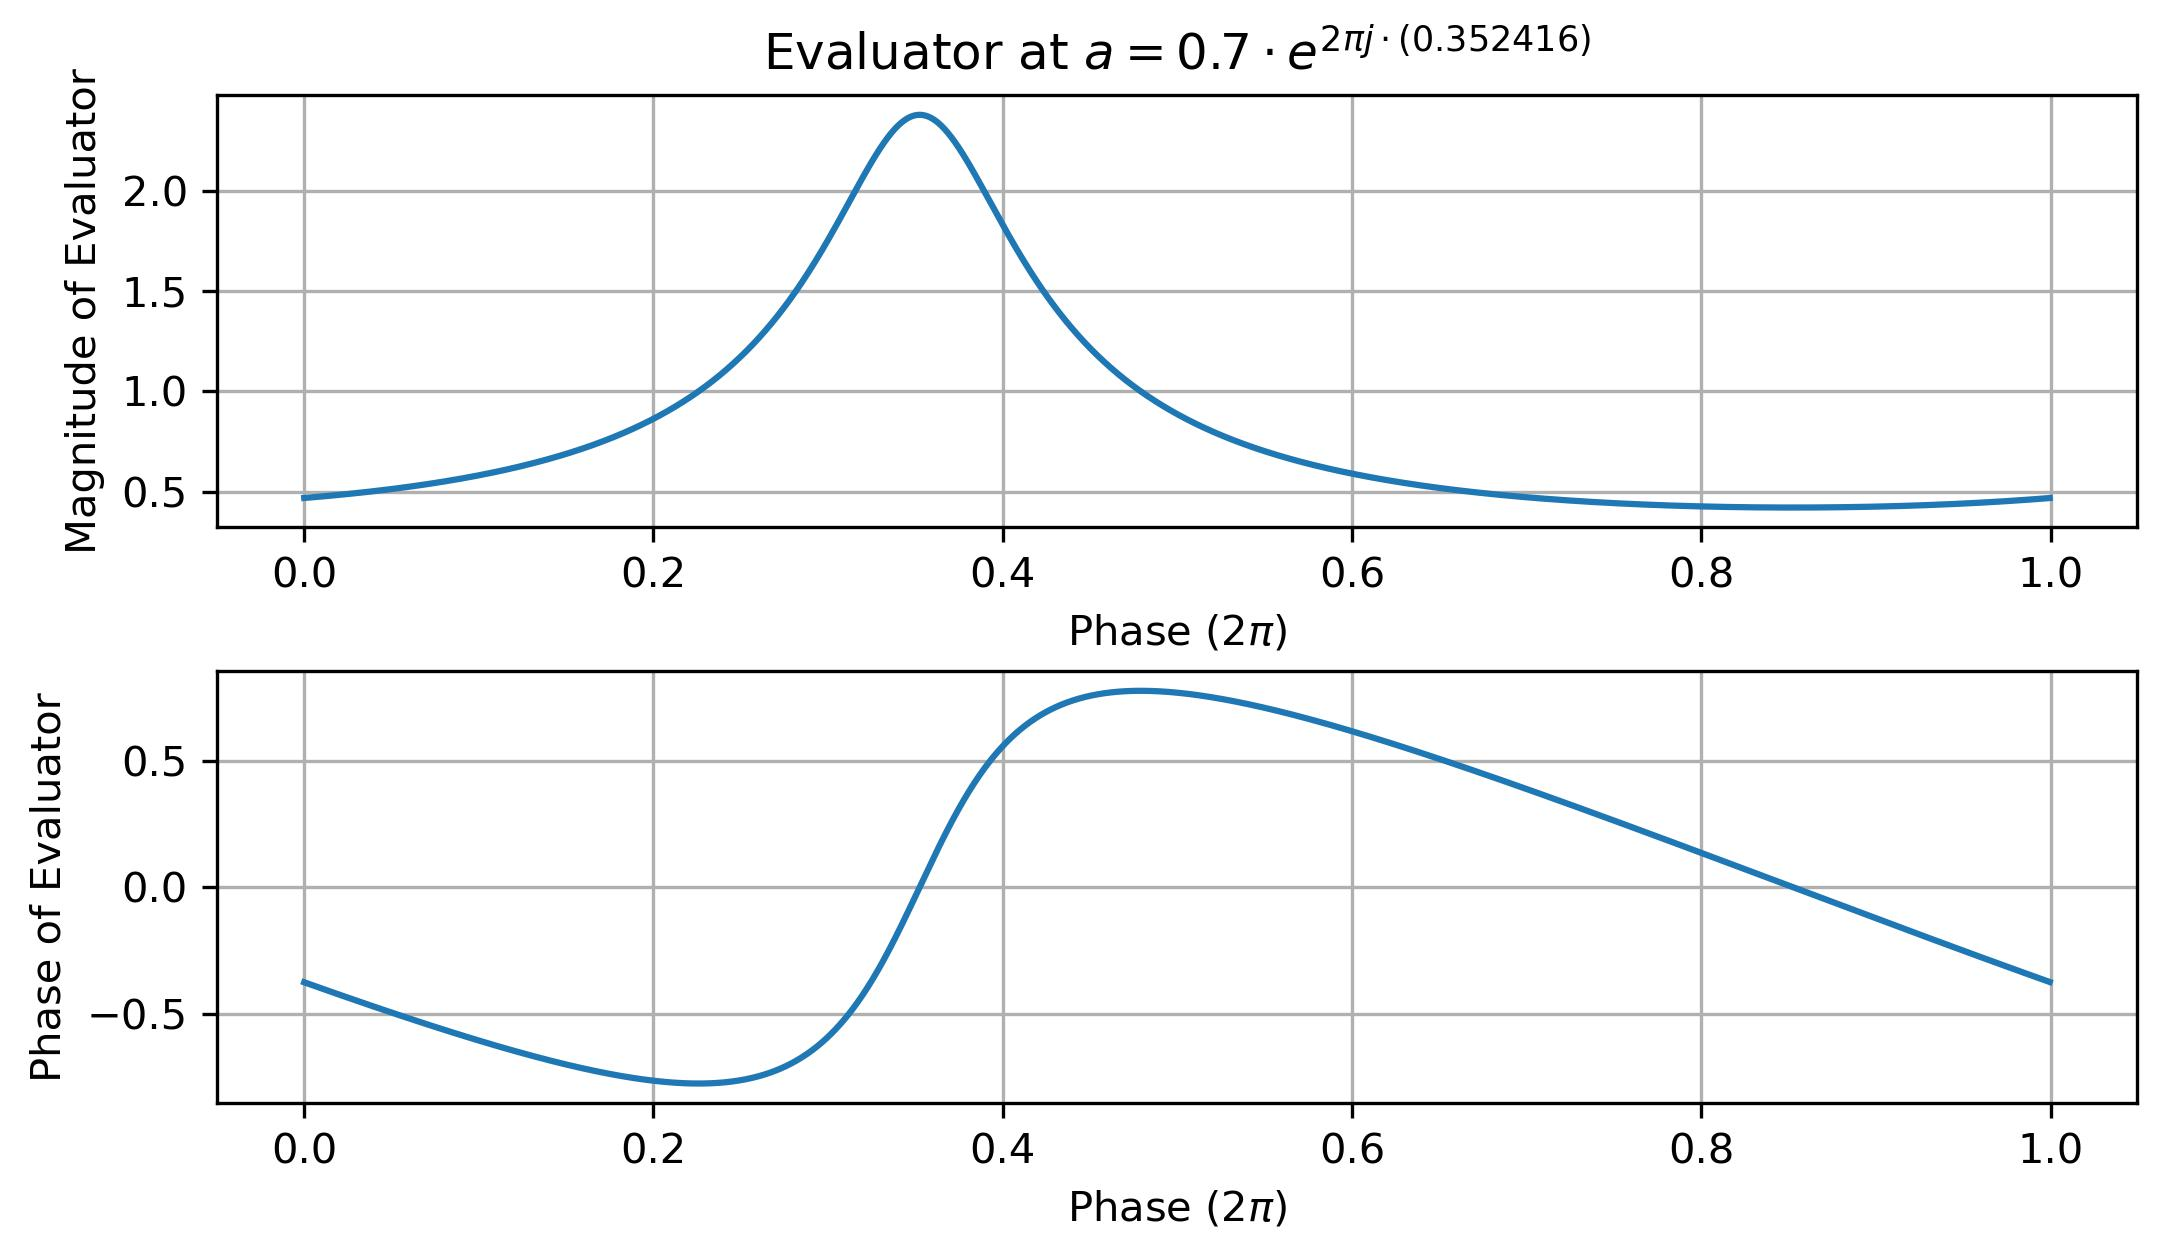
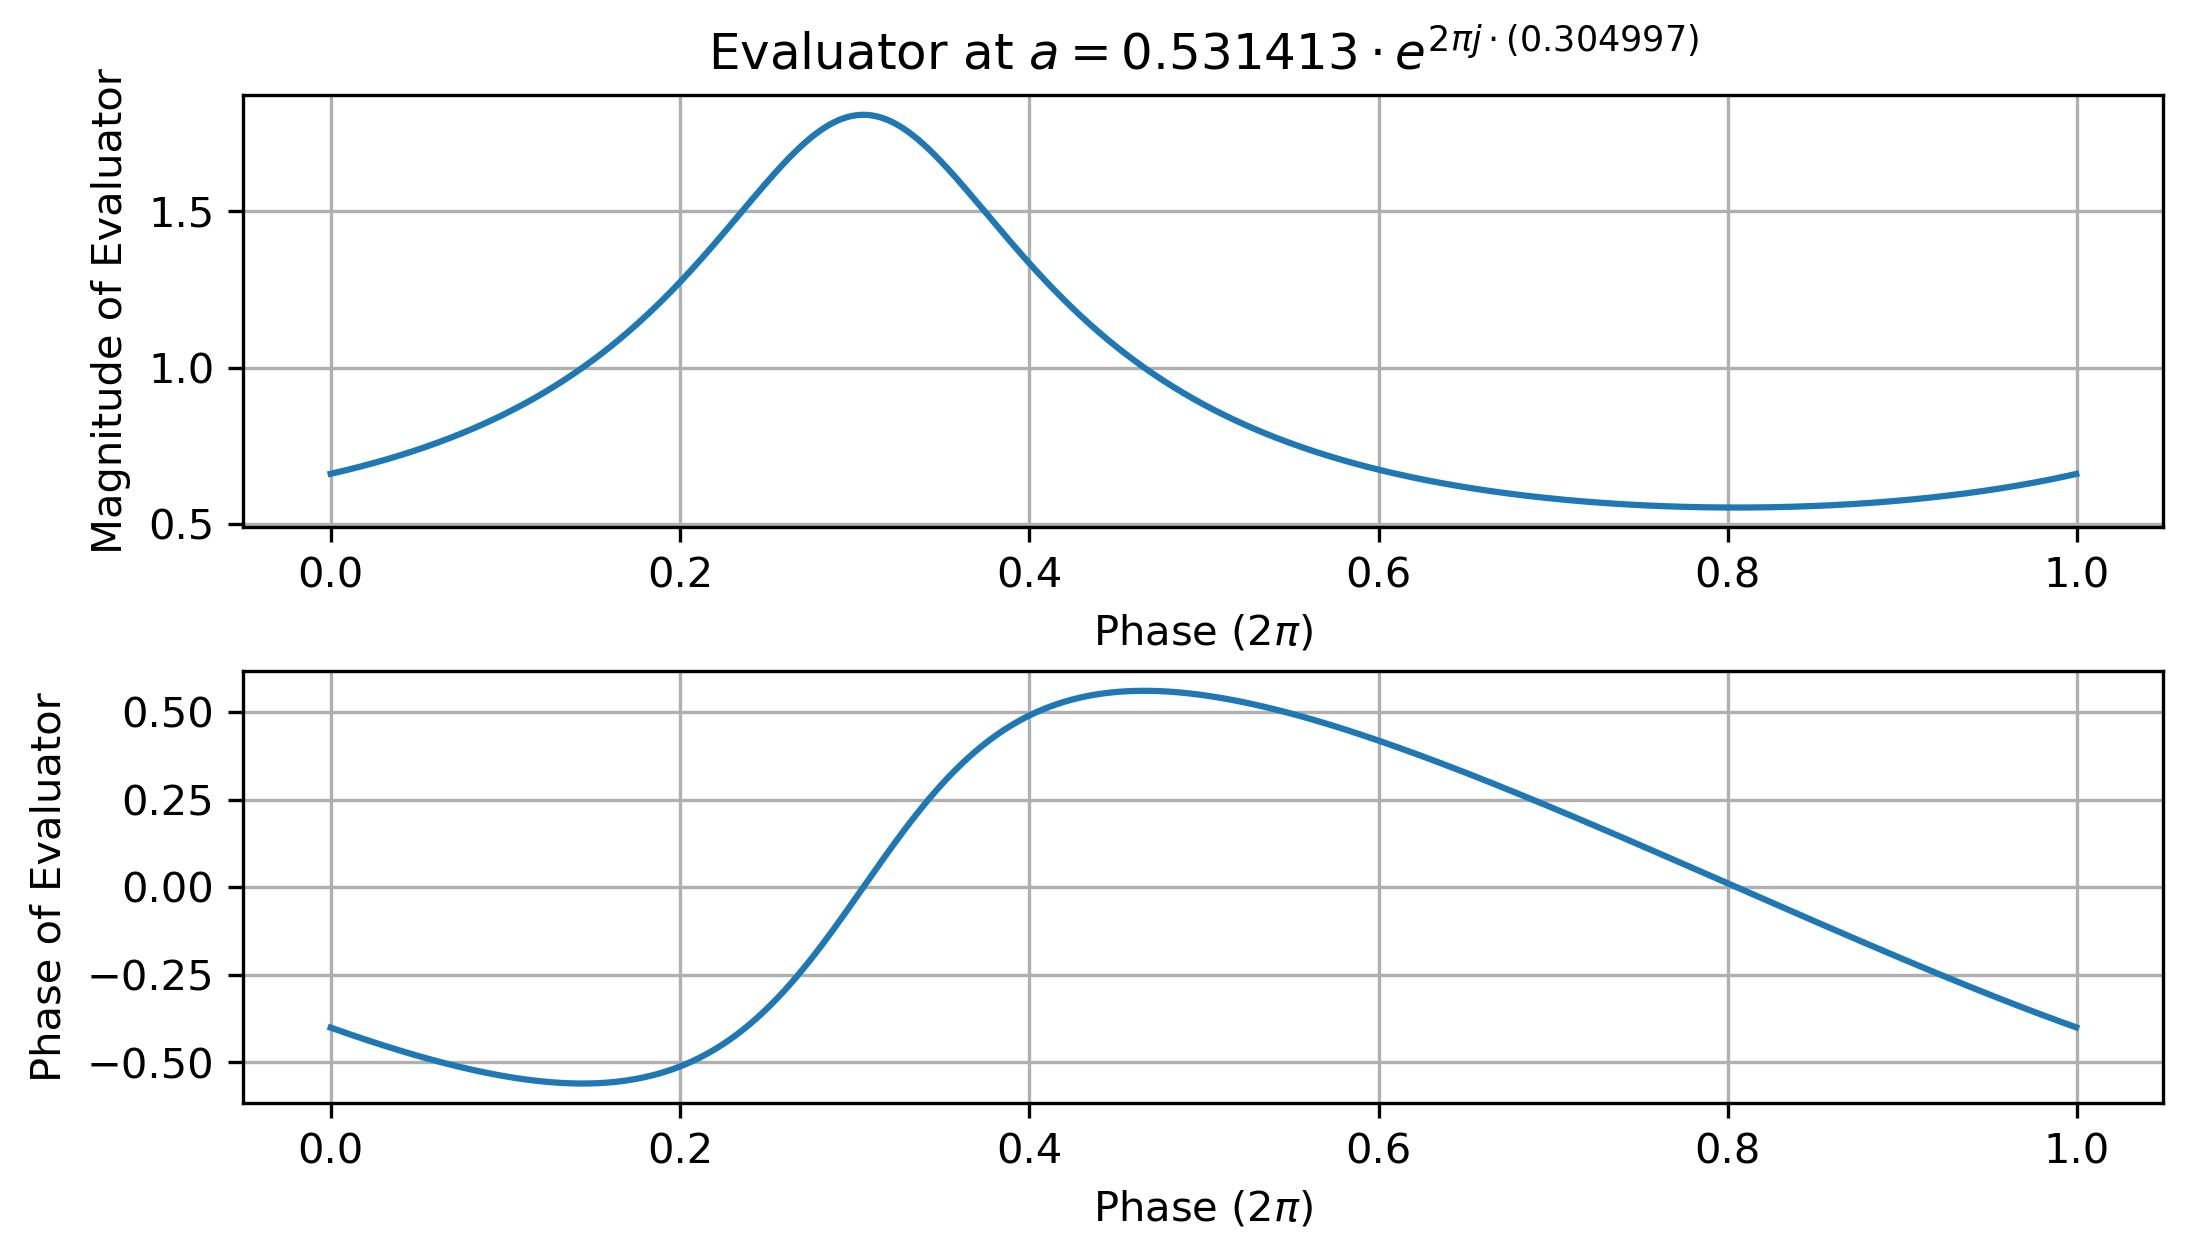
Fast AFD finish

diff --git a/Python/v2.0/example_fast_AFD.py b/Python/v2.0/example_fast_AFD.py
@@ -1,0 +1,48 @@
+import numpy as np
+
+from AFDCal import AFDCal
+from AFDCal._io import savefig
+
+# init AFD Calculation
+afdcal = AFDCal()
+# Load input signal
+afdcal.loadInputSignal('bump_signal.mat')
+# set decomposition method: Single Channel fast AFD
+afdcal.setDecompMethod(2)
+# set dictionary generation method: circle
+afdcal.setDicGenMethod(2)
+# generate dictionary
+afdcal.genDic(1/50, 1)
+
+print("Time of generating the searching dictionary: {:n} s".format(afdcal.time_genDic))
+fig, _ = afdcal.plot_dict()
+savefig(fig, 'example_res_fast_AFD/searching_dictionary.jpg')
+# generate evaluator
+afdcal.genEva()
+
+print("Time of generating evaluators: {:n} s".format(afdcal.time_genEva))
+fig, _ = afdcal.plot_base_random()
+savefig(fig, 'example_res_fast_AFD/evaluator.jpg')
+# Initilize decomposition
+afdcal.init_decomp()
+
+print("Time of decomposition at level={:n}: {:n} s".format(0,afdcal.run_time[0]))
+fig, _ = afdcal.plot_decomp(0)
+savefig(fig, 'example_res_fast_AFD/decomp_comp_level_{:n}.jpg'.format(0))
+fig, _ = afdcal.plot_basis_comp(0)
+savefig(fig, 'example_res_fast_AFD/basis_comp_level_{:n}.jpg'.format(0))
+# Decomposition 10 levels
+for level in range(10):
+    afdcal.nextDecomp()    
+
+    print("Total running time of the decomposition from level 1 to level {:n}: {:n} s".format(afdcal.level,sum(afdcal.run_time)))
+    fig, _ = afdcal.plot_decomp(afdcal.level)
+    savefig(fig, 'example_res_fast_AFD/decomp_comp_level_{:n}.jpg'.format(afdcal.level))
+    fig, _ = afdcal.plot_basis_comp(afdcal.level)
+    savefig(fig, 'example_res_fast_AFD/basis_comp_level_{:n}.jpg'.format(afdcal.level))
+    fig, _ = afdcal.plot_re_sig(afdcal.level)
+    savefig(fig, 'example_res_fast_AFD/reconstructed_signal_level_{:n}.jpg'.format(afdcal.level))
+    fig, _ = afdcal.plot_energy_rate(afdcal.level)
+    savefig(fig, 'example_res_fast_AFD/energy_convergence_rate_level_{:n}.jpg'.format(afdcal.level))
+    fig, _ = afdcal.plot_searchRes(afdcal.level)
+    savefig(fig, 'example_res_fast_AFD/searching_result_level_{:n}.jpg'.format(afdcal.level))

diff --git a/Python/v2.0/AFDCal/_decomposition.py b/Python/v2.0/AFDCal/_decomposition.py
@@ -2,6 +2,7 @@ from numpy import ndarray
 from typing import Union, Optional, Dict, List, Tuple
 import numpy as np
 import numpy.fft as pyfft
+import numpy.matlib as pymat
 from math import pi
 
 import warnings
@@ -45,7 +46,9 @@ def genDic(self,
         if self.dicGenMethod == 1:
             raise ValueError("The fast AFD cannot use the 'square' dictionary.")
         elif self.dicGenMethod == 2:
-            self.dic_an = Circle_Disk(dist, max_an_mag, len(self.s), 0)
+            _, sig_len = self.s.shape
+            self.dic_an = Circle_Disk(dist, max_an_mag, sig_len, 0)
+            self.dic_an_search = Circle_Disk(dist, max_an_mag, sig_len, 2*pi-2*pi/sig_len)
     self.time_genDic = time() - start_time
 
 def genEva(self):
@@ -129,11 +132,17 @@ def nextDecomp(self):
             S1_tmp.append(np.abs(calS1(self.Base[i,:,:], self.remainder[self.level], self.weight)).T)
         S1_tmp = np.concatenate(S1_tmp, 0) 
     elif self.decompMethod == 2: # Fast AFD
-        S1_tmp = np.abs(pyfft.ifft(np.repmat(pyfft.fft(self.remainder[self.level] * self.weight.T, self.t.shape[1]),self.Base.shape[0], 1) * self.Base, self.t.shape[1], 1))
+        Base = self.Base[0,:,:]
+        S1_tmp = np.abs(pyfft.ifft(pymat.repmat(pyfft.fft(self.remainder[self.level] * self.weight.T, self.t.shape[1]),Base.shape[0], 1) * Base, self.t.shape[1], 1))
+        S1_tmp = S1_tmp.T
     self.S1.append(S1_tmp)
     max_loc_tmp = np.argwhere(S1_tmp == np.amax(S1_tmp))
     self.max_loc.append(max_loc_tmp)
-    an = self.dic_an[max_loc_tmp[0,0],max_loc_tmp[0,1]]
+    if self.decompMethod == 1:
+        dic_an = self.dic_an
+    elif self.decompMethod == 2:
+        dic_an = self.dic_an_search
+    an = dic_an[max_loc_tmp[0,0],max_loc_tmp[0,1]]
     self.an.append(an)
     # Decomposition coefficient
     coef = calCoef(an, self.t, self.remainder[self.level], self.weight)

diff --git a/Python/v2.0/AFDCal/_plot.py b/Python/v2.0/AFDCal/_plot.py
@@ -16,12 +16,11 @@ def plot_dict(self,
     ax = fig.add_axes([0,0,1,1])
 
     if self.decompMethod == 1:
-        ax.plot(np.real(self.dic_an), np.imag(self.dic_an), 'x')
+        dic_an = self.dic_an
     elif self.decompMethod == 2:
-        dist = np.mean(np.diff(np.abs(self.dic_an)))
-        max_an_mag = np.amax(np.abs(self.dic_an)) + dist/2
-        dic_an = Circle_Disk(dist, max_an_mag, self.s.shape[1], 2*pi-2*pi/self.s.shape[1])
-        ax.plot(np.real(dic_an), np.imag(dic_an), 'x')
+        dic_an = self.dic_an_search
+    
+    ax.plot(np.real(dic_an), np.imag(dic_an), 'x')
 
     ax.grid(True)
     ax.set_xlabel('Real')
@@ -194,10 +193,15 @@ def plot_searchRes(self,
     """
     Plot searching result
     """
+    if self.decompMethod == 1:
+        dic_an = self.dic_an
+    elif self.decompMethod == 2:
+        dic_an = self.dic_an_search
+
     S1 = self.S1[level]
-    S1[np.isnan(self.dic_an)]=None
+    S1[np.isnan(dic_an)]=None
     if self.dicGenMethod == 1:
-        x = np.real(self.dic_an)
+        x = np.real(dic_an)
         for i in range(x.shape[0]):
             if not np.isnan(x[i,:]).any():
                 break
@@ -205,7 +209,7 @@ def plot_searchRes(self,
         x = np.expand_dims(x, axis = 0)
         x = np.repeat(x,S1.shape[1],0)
 
-        y = np.imag(self.dic_an)
+        y = np.imag(dic_an)
         for i in range(y.shape[1]):
             if not np.isnan(y[:,i]).any():
                 break
@@ -213,8 +217,8 @@ def plot_searchRes(self,
         y = np.expand_dims(y, axis = 1)
         y = np.repeat(y,S1.shape[0],1)
     elif self.dicGenMethod == 2:
-        x = np.abs(self.dic_an)
-        y = np.angle(self.dic_an)/(2*pi)
+        x = np.abs(dic_an)
+        y = np.angle(dic_an)/(2*pi)
         y[y<0] += 1
 
     fig = plt.figure(figsize=figsize)

diff --git a/Python/v2.0/AFDCal/_initfun.py b/Python/v2.0/AFDCal/_initfun.py
@@ -67,6 +67,7 @@ def setDecompMethod(self,
             raise ValueError("Unknow decomposition method." + HelpStr)
     else:
         raise ValueError("The decomposition method must be an integer number or a string")
+    
 
 def setDicGenMethod(self,
                     dicGenMethod : Union[int, str]):
